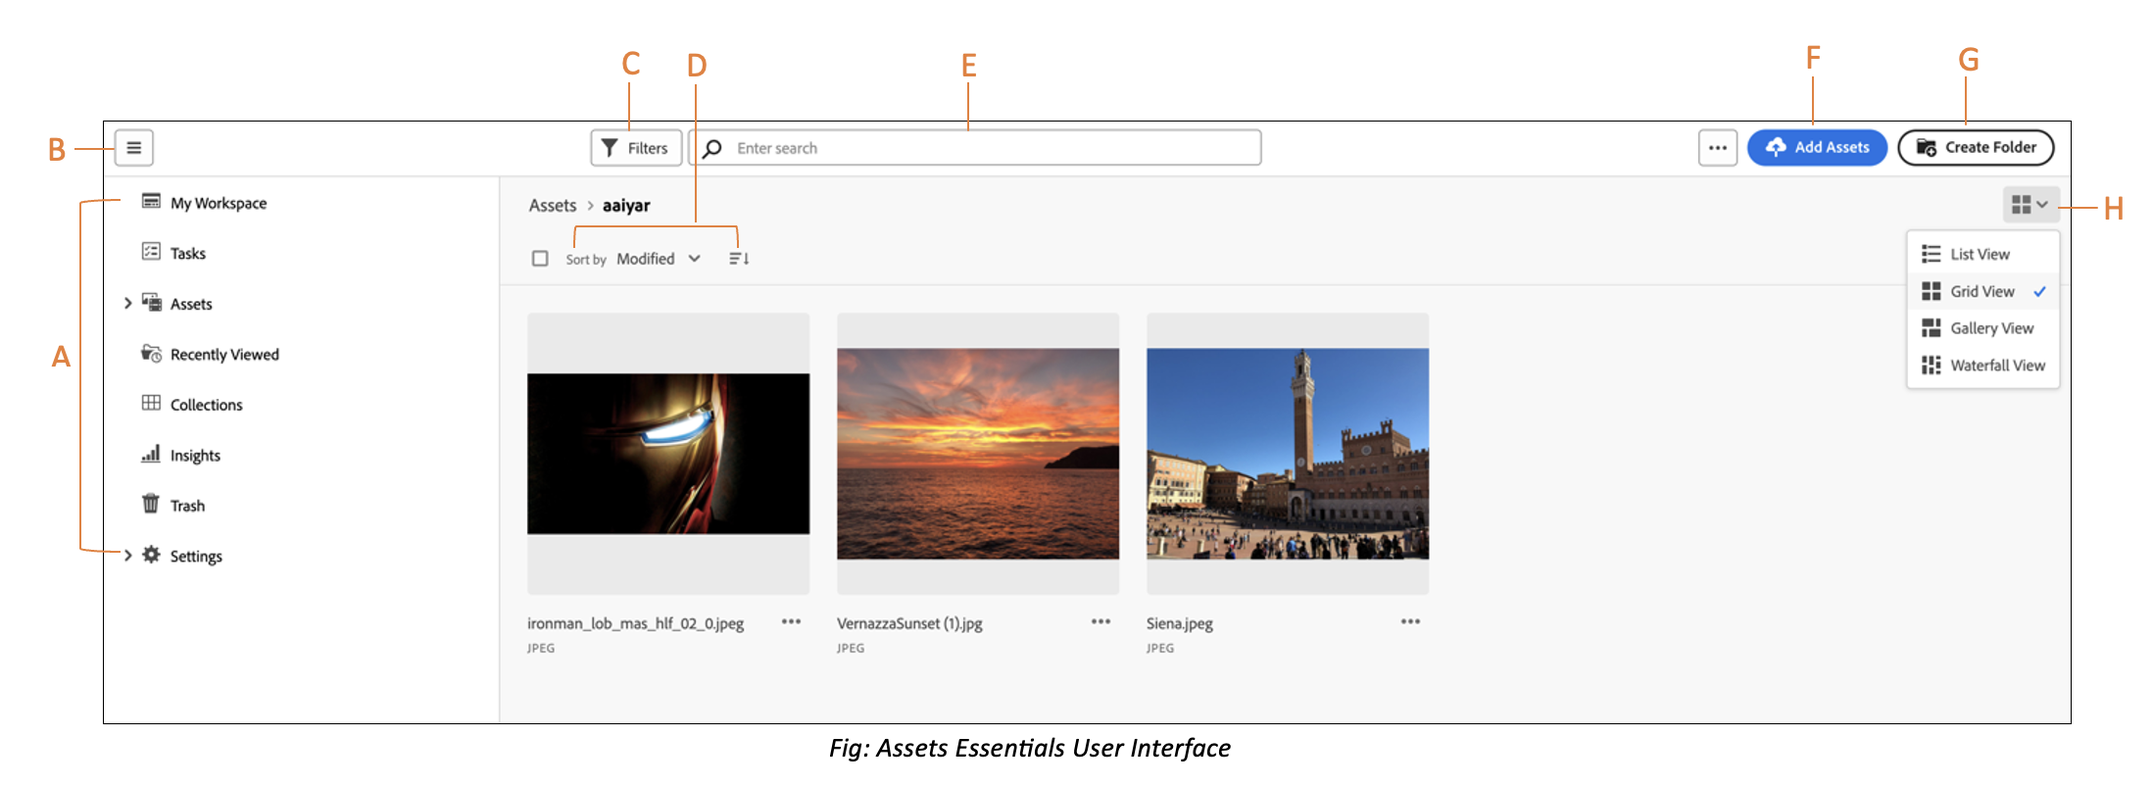
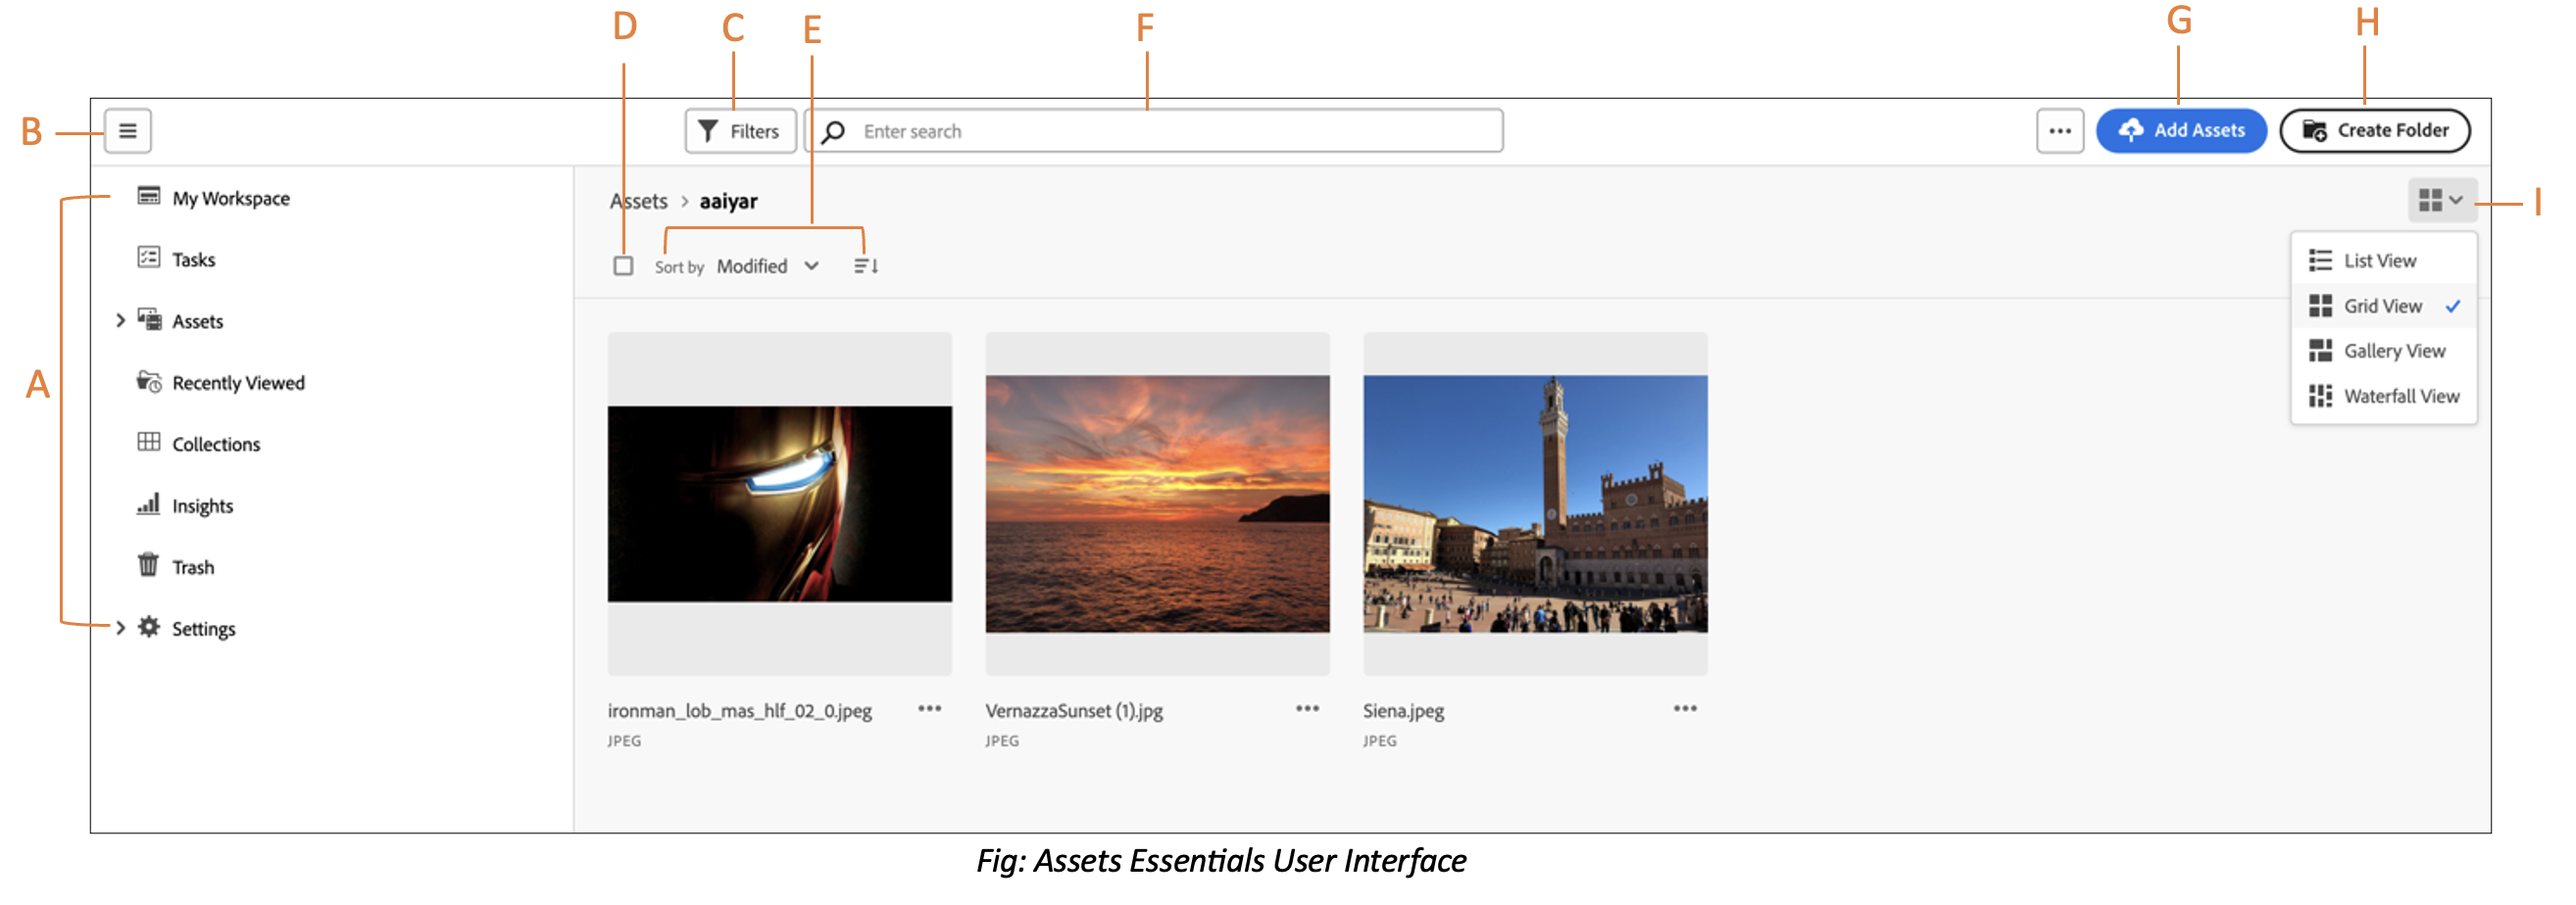
modifications

diff --git a/help/navigate-view.md b/help/navigate-view.md
@@ -16,16 +16,17 @@ exl-id: 534a8084-88f7-410e-b872-719e47e62b10
 
 When you log into [!DNL Assets Essentials], you see the following interface.
 
-![[!DNL Assets Essentials] user interface](assets/essentials-interface.png)
+![[!DNL Assets Essentials] user interface](assets/essENtials-interface.png)
 
 &nbsp;&nbsp;&nbsp; *A: Left sidebar to browse repository and provides access to a few other options*
 &nbsp;&nbsp;&nbsp; *B: Display or collapse the left sidebar to increase asset-viewing area*
 &nbsp;&nbsp;&nbsp; *C: Filter search results*
-&nbsp;&nbsp;&nbsp; *D: Options to sort assets*
-&nbsp;&nbsp;&nbsp; *E: Search box*
-&nbsp;&nbsp;&nbsp; *F: Upload or drag and drop files using `Add Assets` button*
-&nbsp;&nbsp;&nbsp; *G: Create a new foldert*
-&nbsp;&nbsp;&nbsp; *H: Switch between different views*
+&nbsp;&nbsp;&nbsp; *D: Select all contents of the selected folder*
+&nbsp;&nbsp;&nbsp; *E: Options to sort assets*
+&nbsp;&nbsp;&nbsp; *F: Search box*
+&nbsp;&nbsp;&nbsp; *G: Upload or drag and drop files using `Add Assets` button*
+&nbsp;&nbsp;&nbsp; *H: Create a new foldert*
+&nbsp;&nbsp;&nbsp; *I: Switch between different views*
 
 <!-- TBD: Need an embedded video here with narration. It has to be hosted on MPC to be embeddable. -->
 
